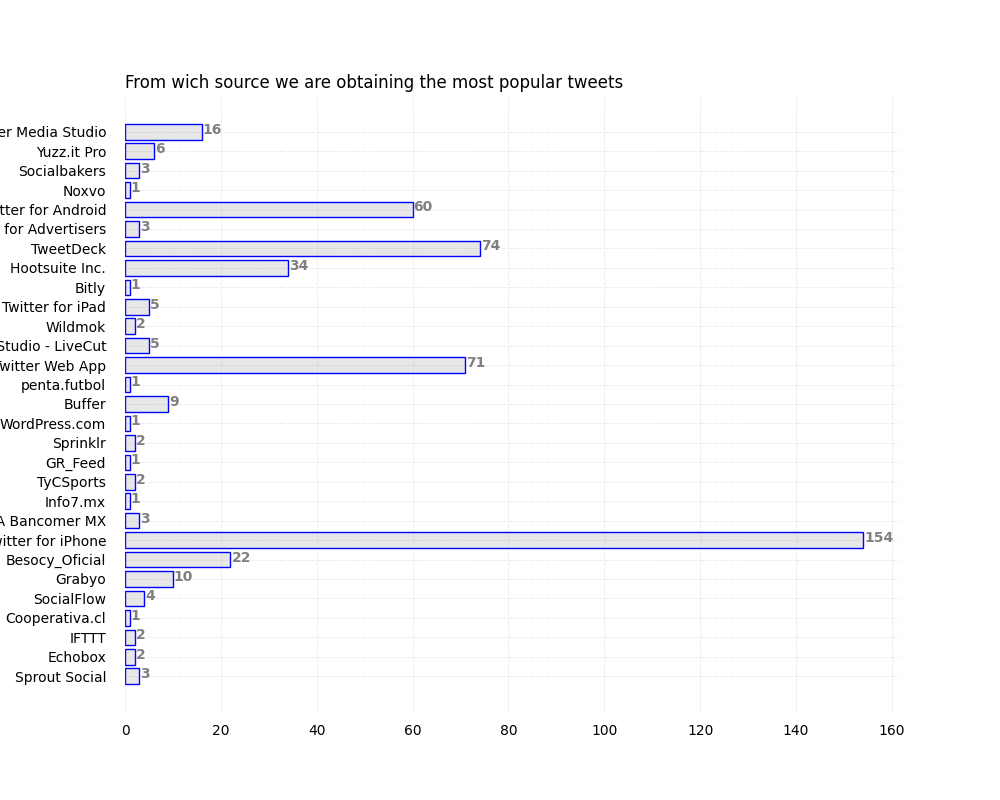
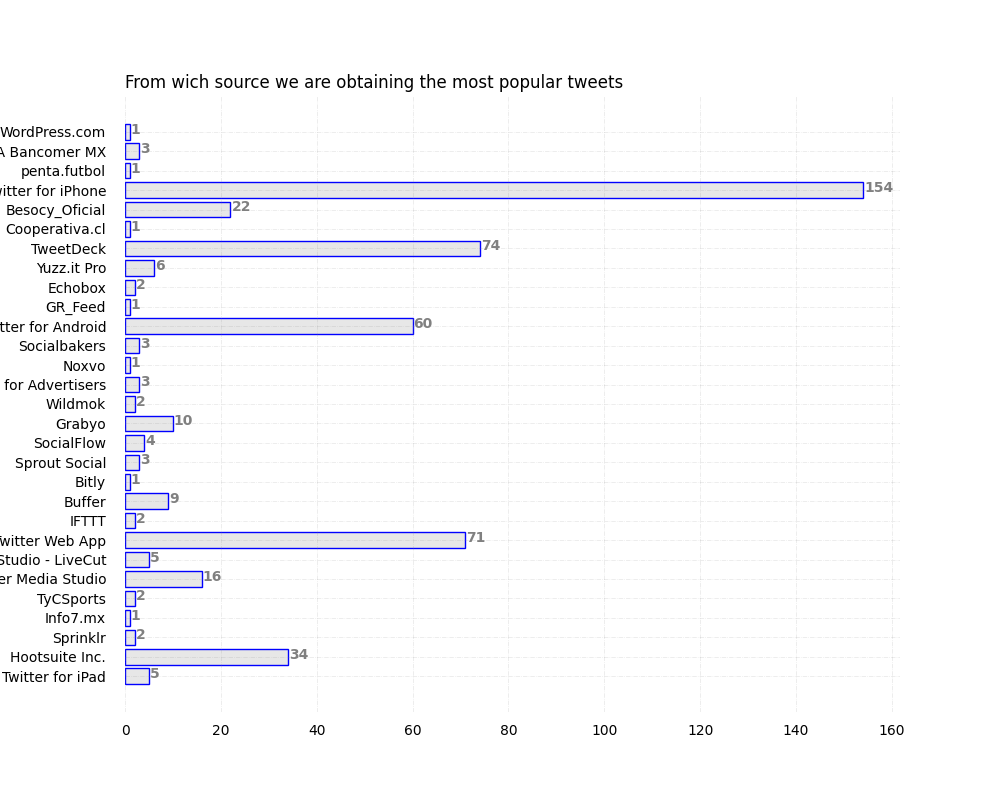
fix size

Changed region(s): [[0.0, 0.1562, 0.899, 0.875], [0.465, 0.6562, 0.899, 0.6875], [0.124, 0.2812, 0.155, 0.3125]]

diff --git a/Proyecto1.0/processing.py b/Proyecto1.0/processing.py
@@ -226,7 +226,7 @@ def create_graphic_favsandrts():
         favs[i] = int(favs[i])
 
 
-    plt.figure()
+    plt.figure(figsize=(11,8))
     x = np.arange(len(rts))
     y = np.array(rts)
     x1=np.arange(len(favs))
